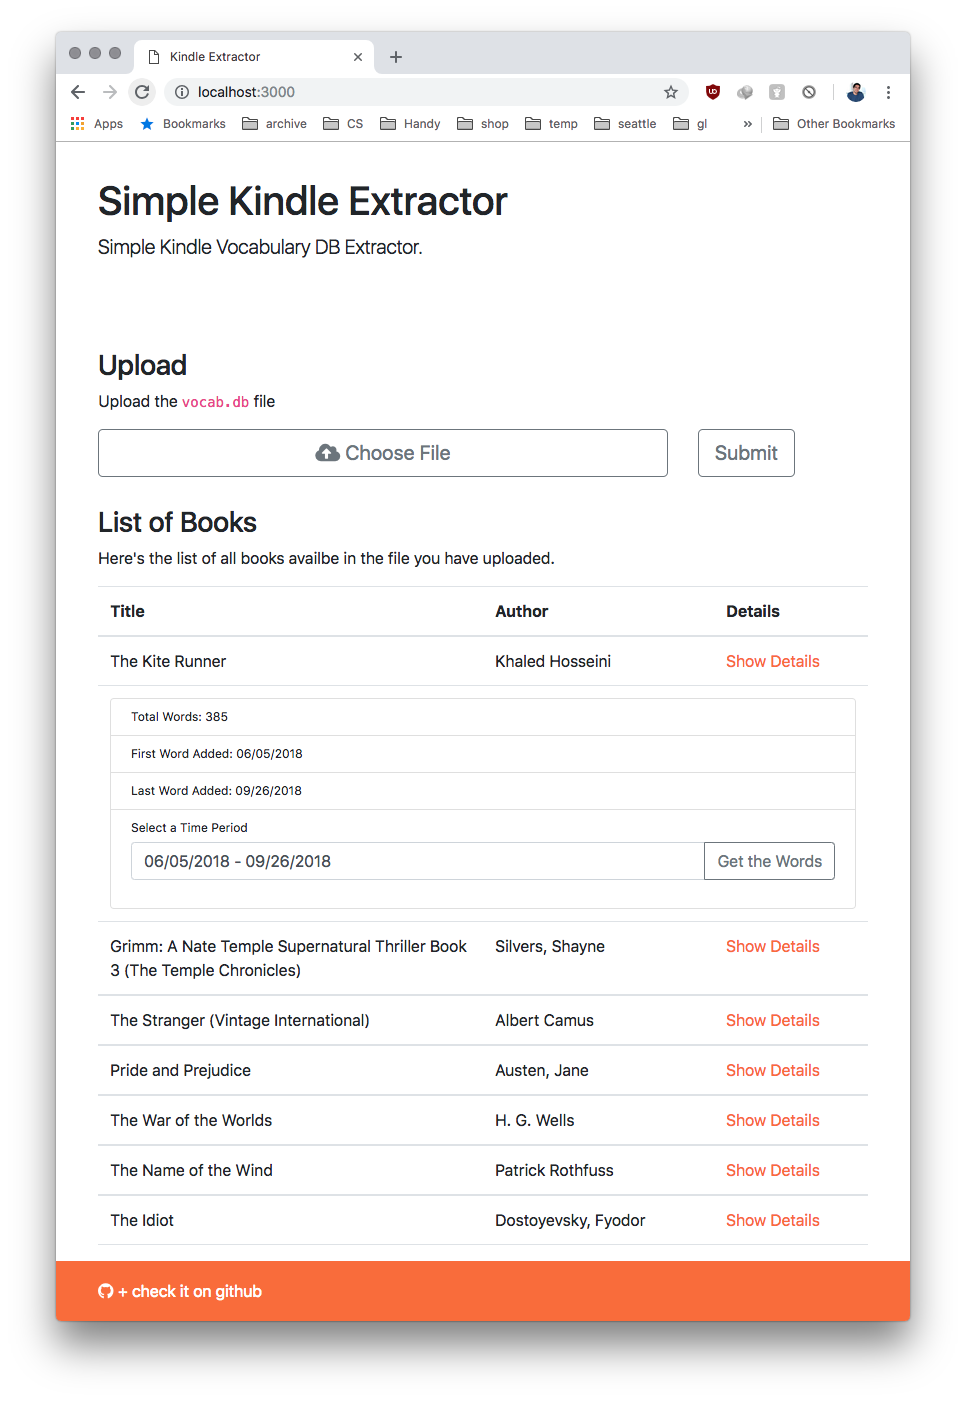
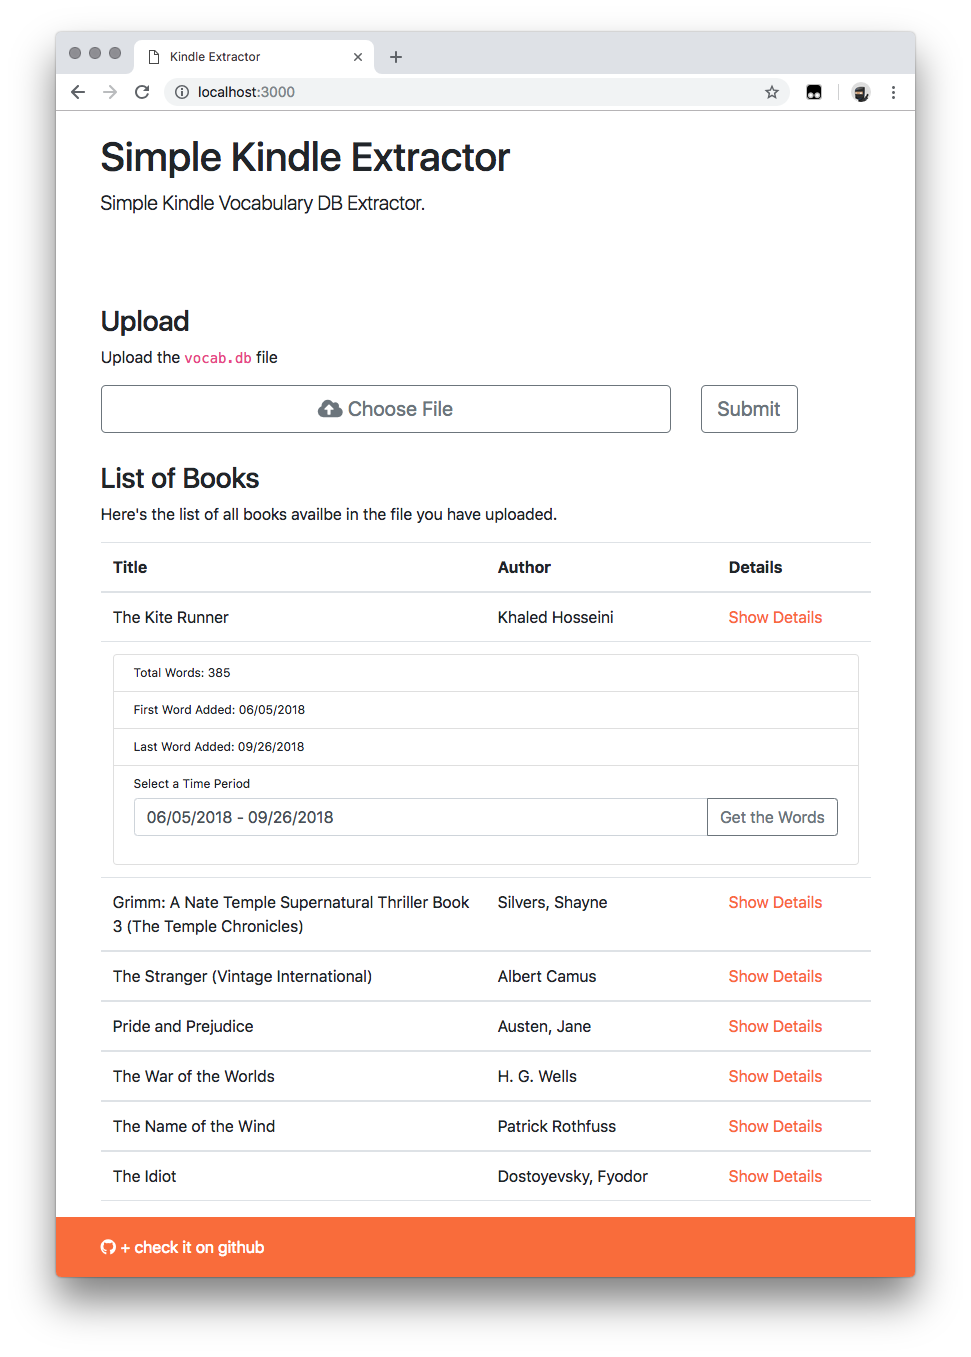
README

diff --git a/README.md b/README.md
@@ -10,5 +10,5 @@
 4. Choose the file from the UI and Submit.
 
 ### Screenshot
-<img src="./readme_img/home.png" alt="Home Page" style="width:600px;"/>
-<img src="./readme_img/results.png" alt="Home Page" style="width:600px;"/>
+<img src="./readme_img/home.png" alt="Home Page" style="width:500px;"/>
+<img src="./readme_img/results.png" alt="Home Page" style="width:500px;"/>
